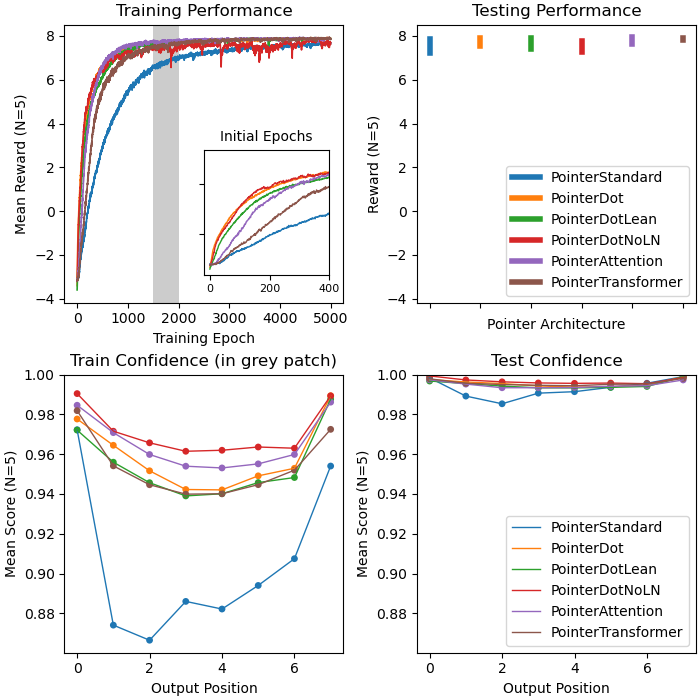
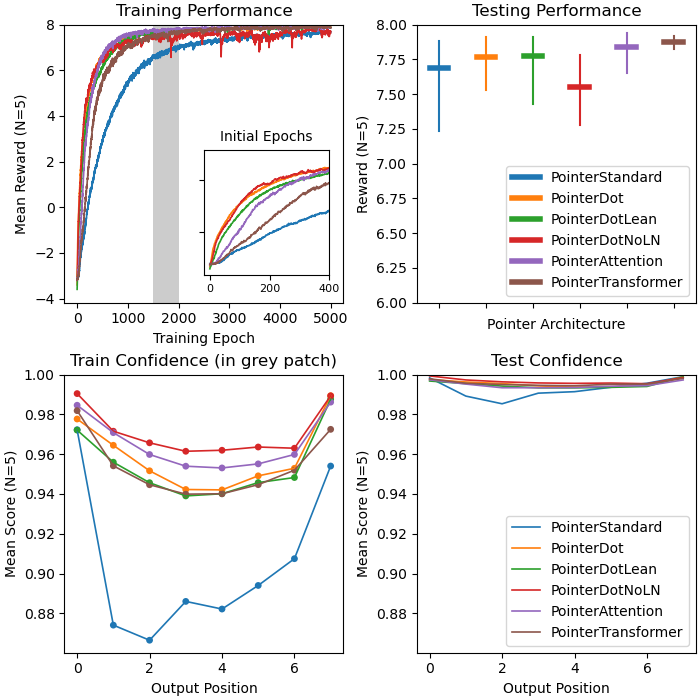
Plot plot plot plot

diff --git a/experiments/pointerArchitectureComparison.py b/experiments/pointerArchitectureComparison.py
@@ -229,7 +229,7 @@ def trainTestModel():
         'trainScoreByPos': trainScoreByPos,
         'testScoreByPos': testScoreByPos,
     }
-
+    
     return results, nets
 
 
@@ -247,48 +247,44 @@ def plotResults(results, args):
     ax[0,0].set_xlabel('Training Epoch')
     ax[0,0].set_ylabel('Mean Reward'+n_string)
     ax[0,0].set_title('Training Performance')
+    ax[0,0].set_ylim(None, 8)
     yMin0, yMax0 = ax[0,0].get_ylim()
-    #ax[0,0].legend(loc='lower right')
-    
+
+    xOffset = [-0.2, 0.2]
+    get_x = lambda idx: [xOffset[0]+idx, xOffset[1]+idx]
     for idx, name in enumerate(POINTER_METHODS):
         mnTestReward = torch.mean(results['testReward'][:,idx], dim=0)
-        # ax[0,1].scatter(idx, torch.mean(mnTestReward), marker='o', color=cmap(idx), label=name)
-        ax[0,1].plot([idx,idx], [mnTestReward.min(), mnTestReward.max()], color=cmap(idx), lw=4, label=name)
+        ax[0,1].plot(get_x(idx), [mnTestReward.mean(), mnTestReward.mean()], color=cmap(idx), lw=4, label=name)
+        ax[0,1].plot([idx,idx], [mnTestReward.min(), mnTestReward.max()], color=cmap(idx), lw=1.5)
     ax[0,1].set_xticklabels([])
     ax[0,1].set_xlabel('Pointer Architecture')
     ax[0,1].set_ylabel('Reward'+n_string)
     ax[0,1].set_title('Testing Performance')
     ax[0,1].legend(loc='lower right')
-    yMin1, yMax1 = ax[0,1].get_ylim()
-
-    new_ymin = min(yMin0, yMin1)
-    new_ymax = max(yMax0, yMax1)
-    ax[0,0].set_ylim(new_ymin, new_ymax)
-    ax[0,1].set_ylim(new_ymin, new_ymax)
+    ax[0,1].set_ylim(6, 8)
 
     # create inset to show initial train trajectory
-    inset_bounds = [0.5, 0.1, 0.45, 0.45] #args.train_epochs/2, new_ymin+0.05*(new_ymax-new_ymin), 0.9*args.train_epochs/2, 0.45*(new_ymax-new_ymin)]
-    inset = ax[0,0].inset_axes(inset_bounds)
+    inset = ax[0,0].inset_axes([0.5, 0.1, 0.45, 0.45])
     for idx, name in enumerate(POINTER_METHODS):
-        inset.plot(range(args.train_epochs), torch.mean(results['trainReward'][:,idx],dim=1), color=cmap(idx), lw=1.0, label=name)
+        inset.plot(range(args.train_epochs), torch.mean(results['trainReward'][:,idx],dim=1), color=cmap(idx), lw=1.2, label=name)
     inset.set_xlim(-20, 400)
-    inset.set_ylim(new_ymin, new_ymax)
+    inset.set_ylim(yMin0, 8)
     inset.set_xticks([0, 200, 400])
     inset.set_xticklabels(inset.get_xticklabels(), fontsize=8)
     inset.set_yticklabels([])
     inset.set_title('Initial Epochs', fontsize=10)
     
     width = trainInspectFrom[1]-trainInspectFrom[0]
-    height = new_ymax - new_ymin
-    rect = mpl.patches.Rectangle([trainInspectFrom[0], new_ymin], width, height, facecolor='k', edgecolor='none', alpha=0.2)
+    height = yMax0 - yMin0
+    rect = mpl.patches.Rectangle([trainInspectFrom[0], yMin0], width, height, facecolor='k', edgecolor='none', alpha=0.2)
     ax[0,0].add_patch(rect)
 
     for idx, name in enumerate(POINTER_METHODS):
         mnTrainScore = torch.mean(results['trainScoreByPos'][trainInspect, :, idx], dim=(0,2))
-        ax[1,0].plot(range(numPos), mnTrainScore, color=cmap(idx), lw=1, label=name)
+        ax[1,0].plot(range(numPos), mnTrainScore, color=cmap(idx), lw=1.2, label=name)
     for idx, name in enumerate(POINTER_METHODS):
         mnTrainScore = torch.mean(results['trainScoreByPos'][trainInspect, :, idx], dim=(0,2))
-        ax[1,0].scatter(range(numPos), mnTrainScore, color=cmap(idx), lw=0.5, marker='o', s=24, edgecolor='none')
+        ax[1,0].scatter(range(numPos), mnTrainScore, color=cmap(idx), marker='o', s=24, edgecolor='none')
     ax[1,0].set_ylim(None, 1)
     ax[1,0].set_xlabel('Output Position')
     ax[1,0].set_ylabel('Mean Score'+n_string)
@@ -297,10 +293,7 @@ def plotResults(results, args):
     
     for idx, name in enumerate(POINTER_METHODS):
         mnTestScore = torch.mean(results['testScoreByPos'][:, :, idx], dim=(0,2))
-        ax[1,1].plot(range(numPos), mnTestScore, color=cmap(idx), lw=1, label=name)
-    for idx, name in enumerate(POINTER_METHODS):
-        mnTestScore = torch.mean(results['testScoreByPos'][:, :, idx], dim=(0,2))
-        ax[1,1].scatter(range(numPos), mnTestScore, color=cmap(idx), lw=0.5, marker='o', s=24, edgecolor='none')
+        ax[1,1].plot(range(numPos), mnTestScore, color=cmap(idx), lw=1.2, label=name)
     ax[1,1].set_xlabel('Output Position')
     ax[1,1].set_ylabel('Mean Score'+n_string)
     ax[1,1].set_title('Test Confidence')
